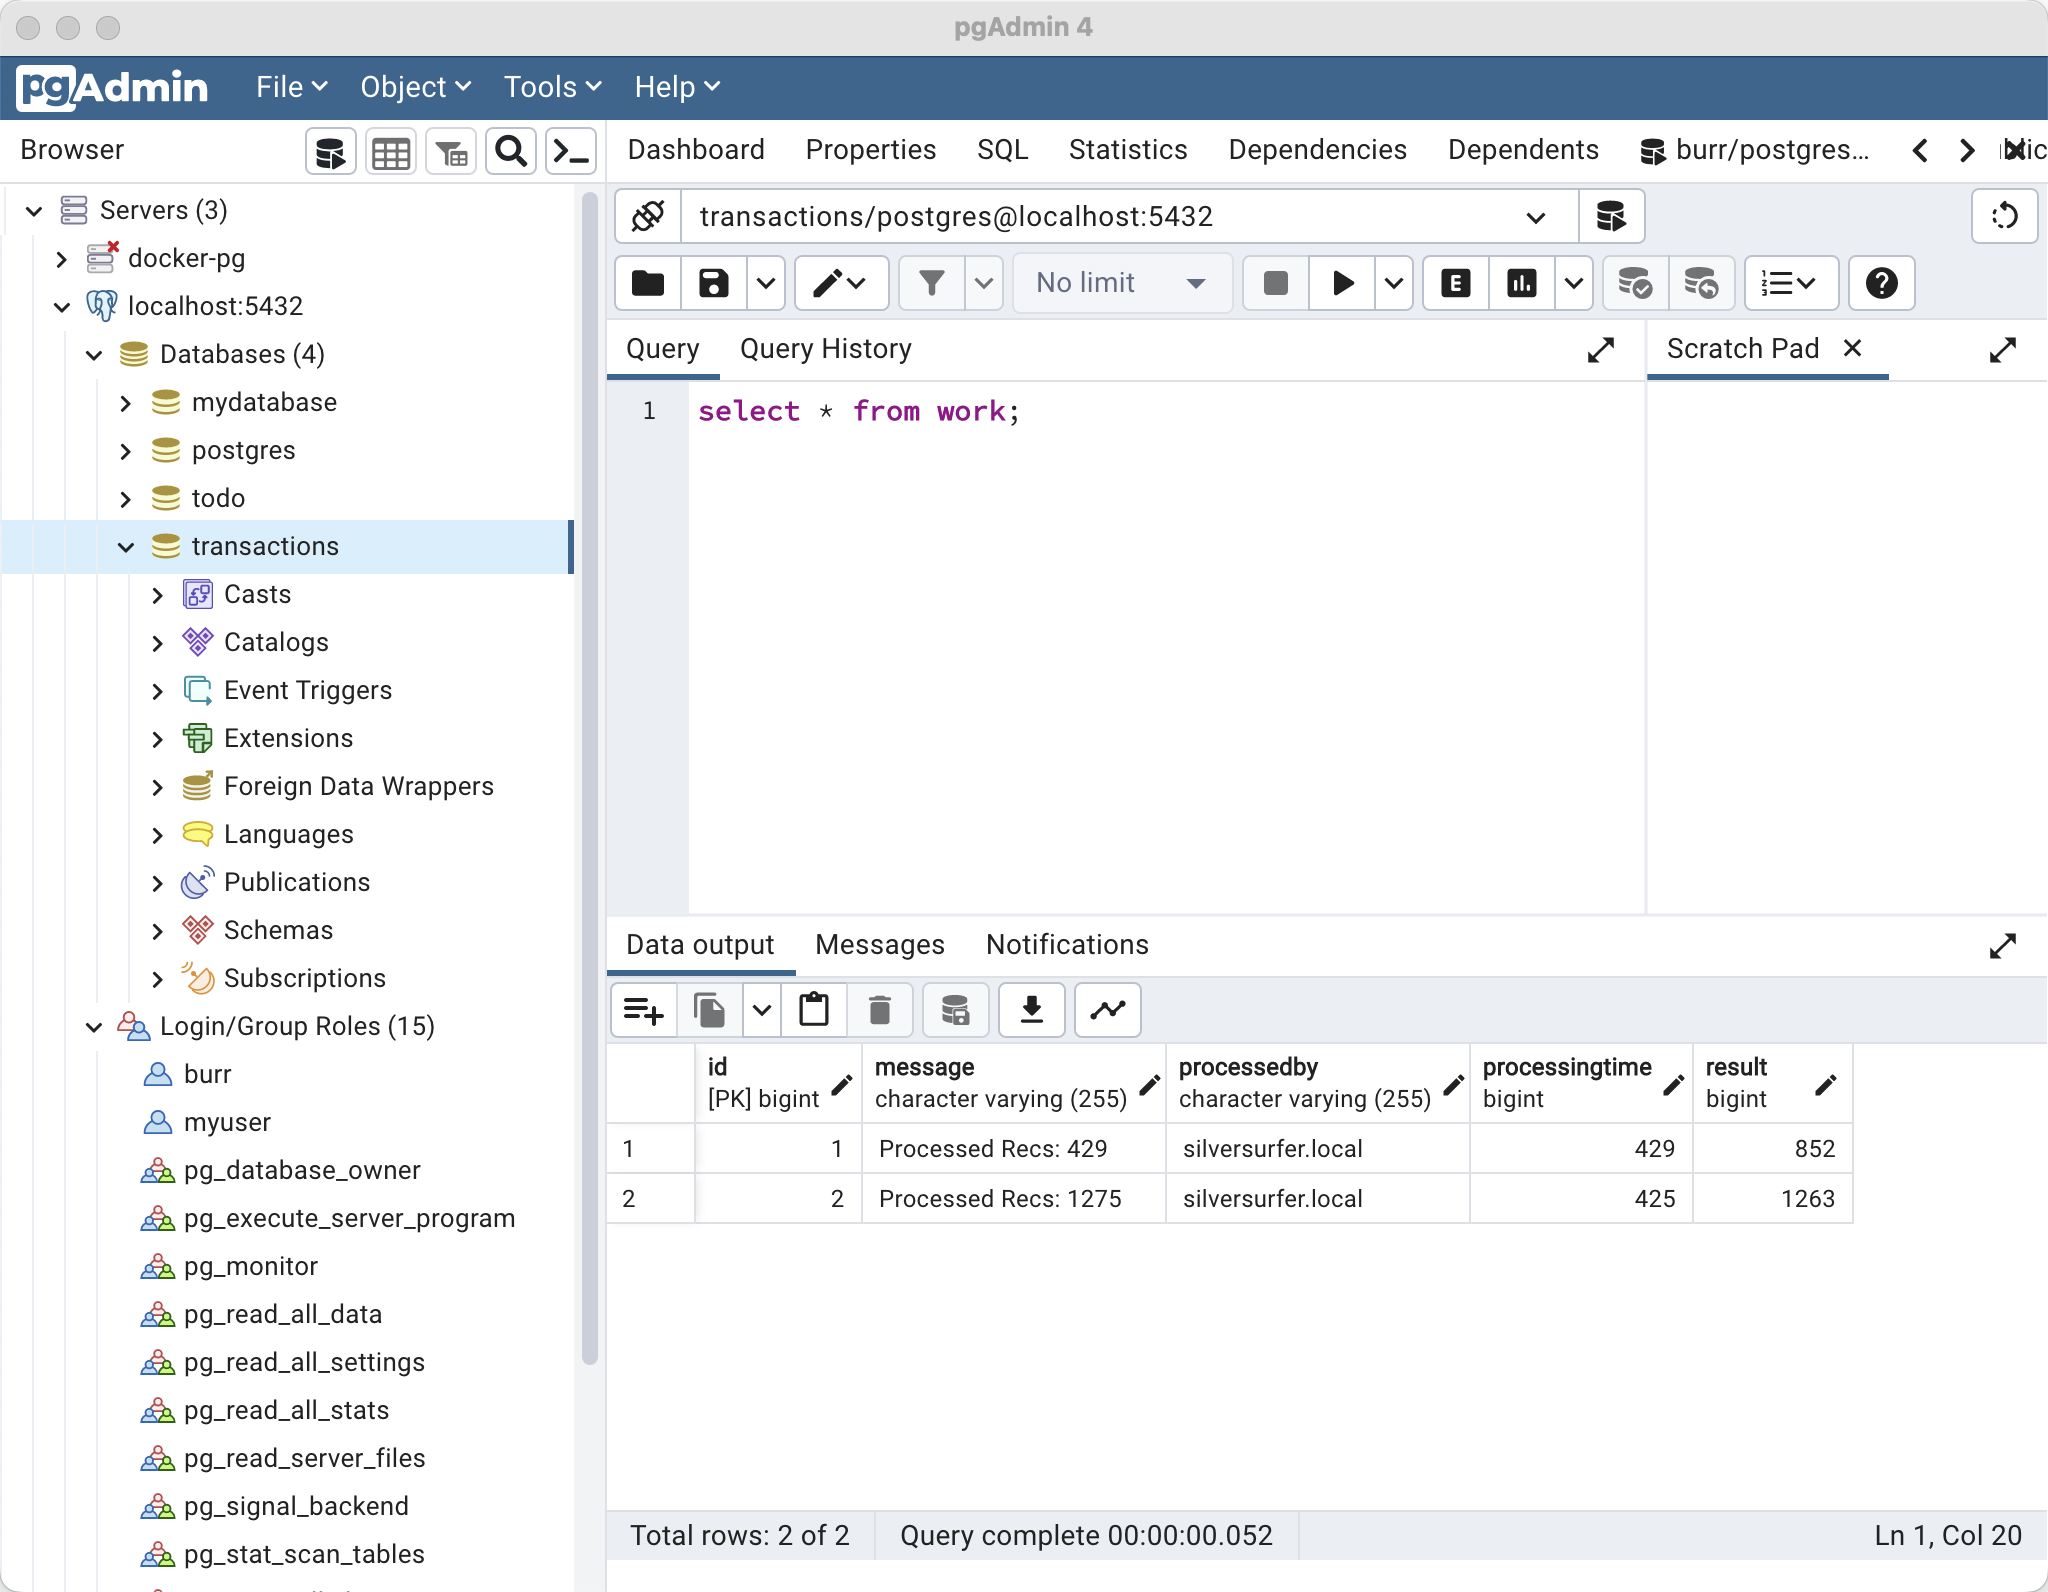
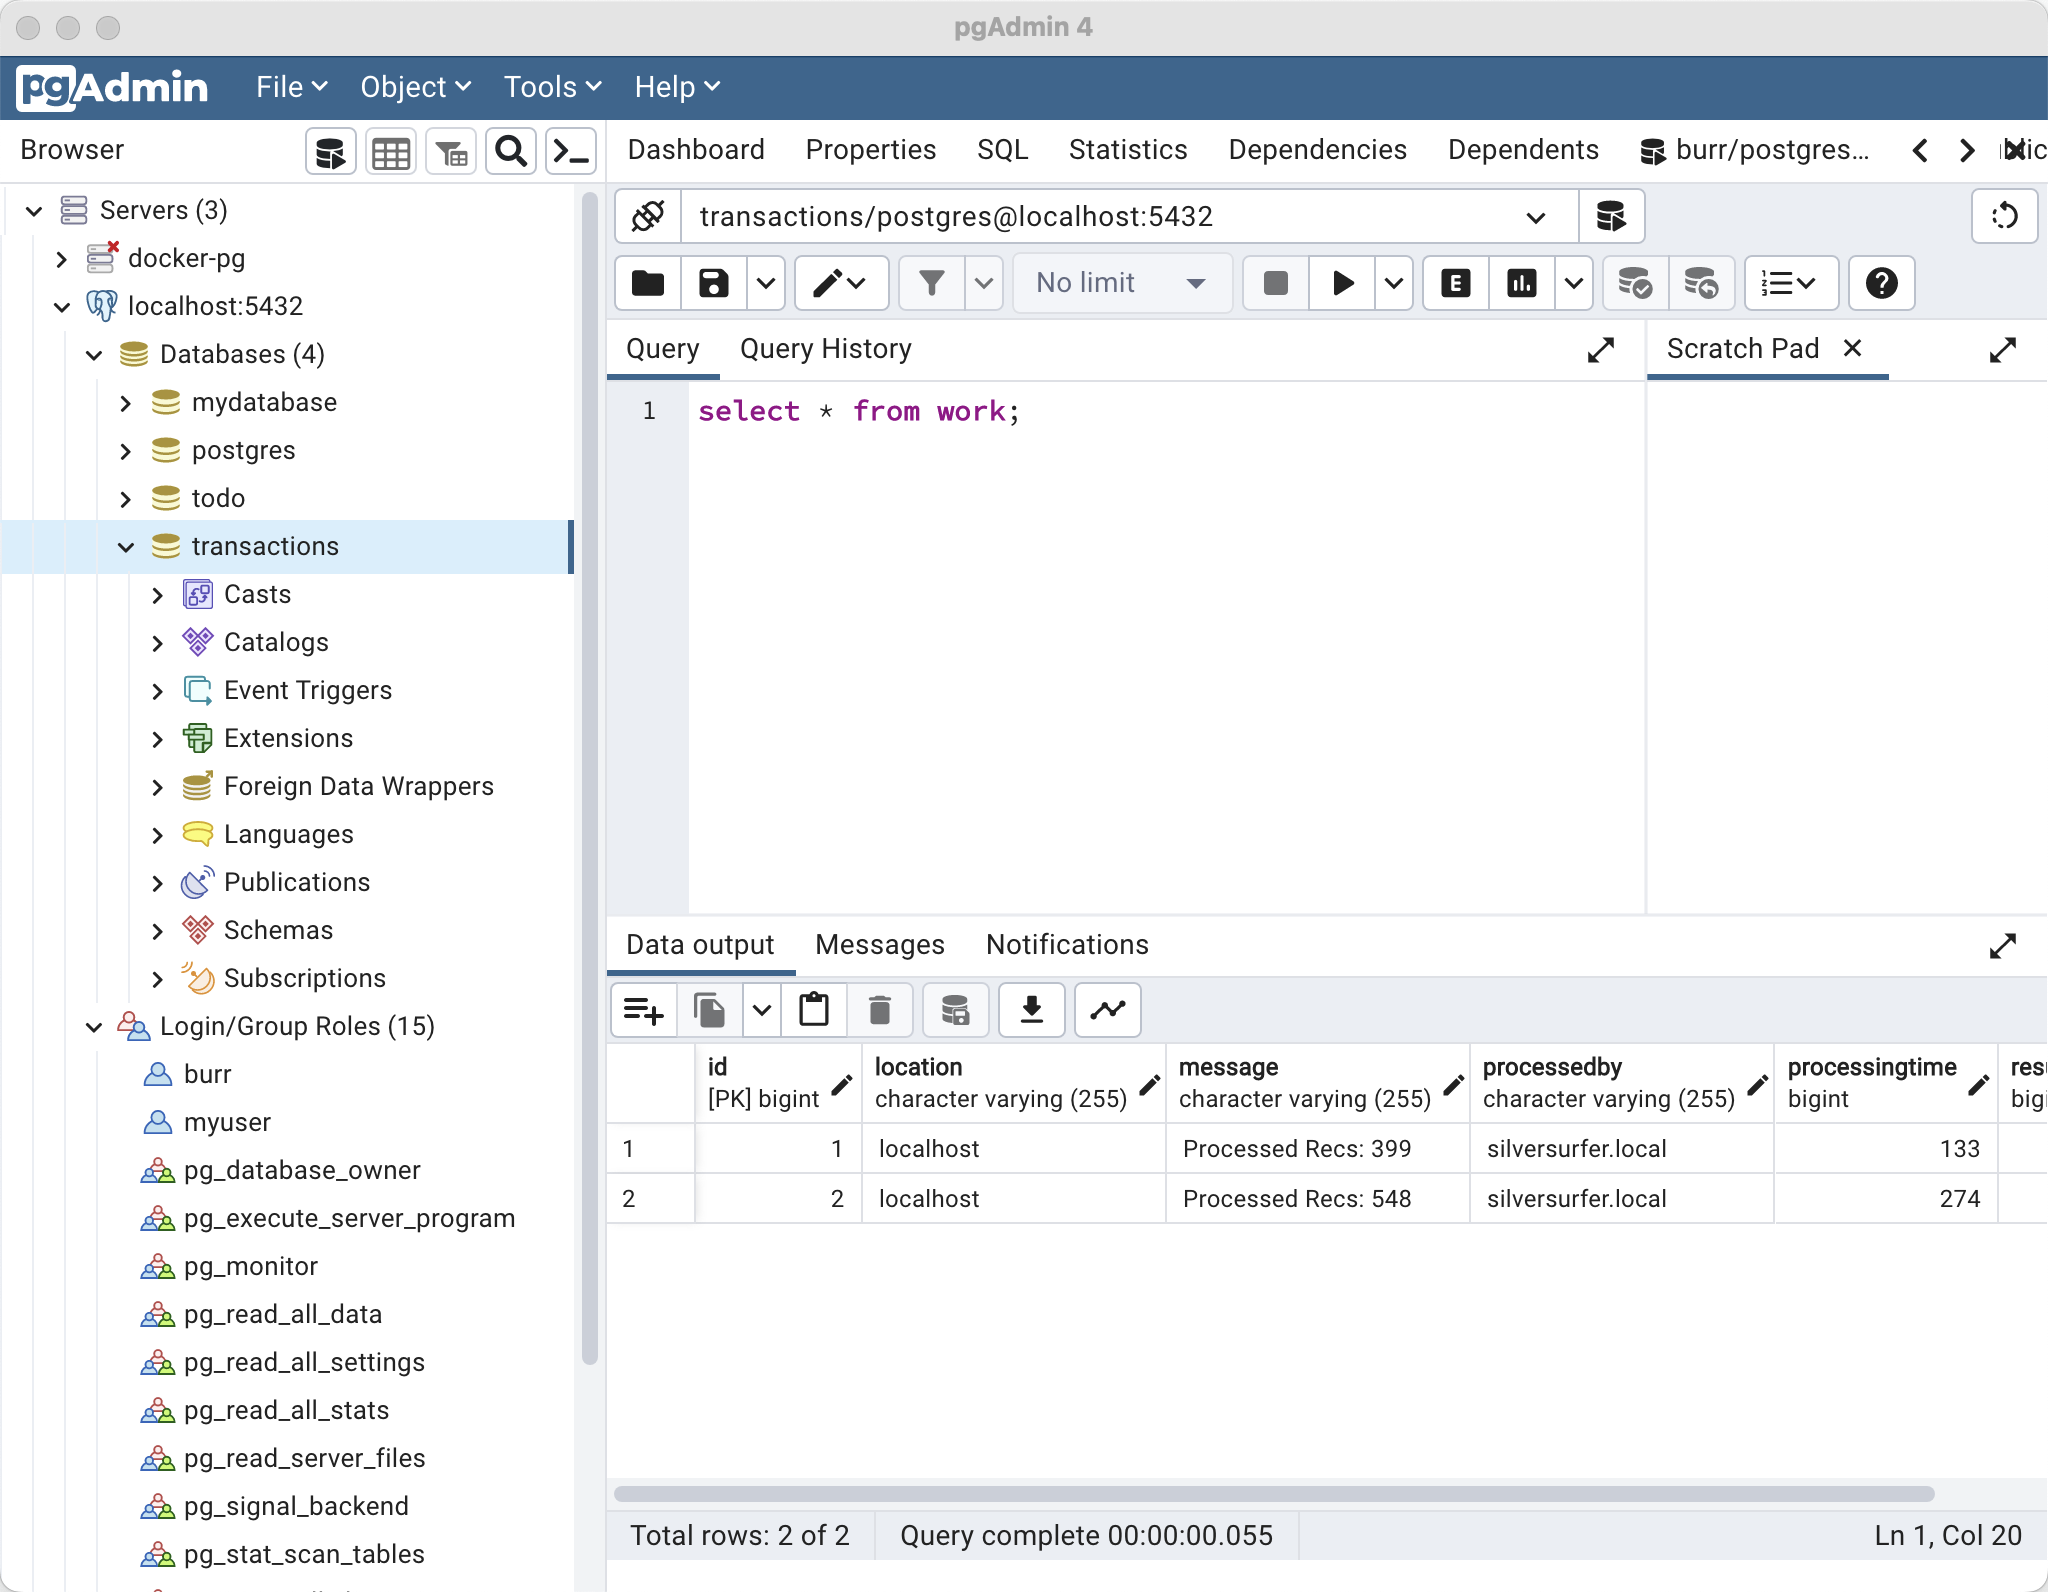
adding cape town

diff --git a/README.md b/README.md
@@ -170,10 +170,10 @@ select * from work;
 ```
 
 ```
- id |       message        |    processedby     | processingtime | result
-----+----------------------+--------------------+----------------+--------
-  1 | Processed Recs: 429  | silversurfer.local |            429 |    852
-  2 | Processed Recs: 1275 | silversurfer.local |            425 |   1263
+id | location  |       message       |    processedby     | processingtime | result
+----+-----------+---------------------+--------------------+----------------+--------
+  1 | localhost | Processed Recs: 399 | silversurfer.local |            133 |    762
+  2 | localhost | Processed Recs: 548 | silversurfer.local |            274 |    268
 ```
 
 
@@ -186,7 +186,87 @@ exit
 
 ## Push Worker to Cluster
 
+```
+kubectl apply -f transaction-deployment.yaml
+```
+
+```
+kubectl set env deployment/transactor LOCATION=Tokyo 
+```
+
+```
+kubectl exec -it deploy/transactor -- bash 
+```
+
+```
+curl localhost:8080/2
+```
+
+## Add another cluster: CapeTown
+
+```
+export KUBECONFIG=/Users/burr/xKS/.kubeconfig/capetown-config
+
+eksctl create cluster \
+--name capetown \
+--region af-south-1 \
+--nodegroup-name myEKSworkers \
+--instance-types=m5.xlarge \
+--nodes 2 \
+--managed
+```
+
+```
+eksctl utils write-kubeconfig --cluster=capetown --region=af-south-1
+
+aws eks update-kubeconfig --name=capetown --region=af-south-1
+```
+
+```
+kubectl create namespace oltp
+kubectl config set-context --current --namespace=oltp
+```
+
+```
+skupper init
+```
+
+#### On Toyko
+
+```
+skupper token create token.yaml -t cert
+```
+
+#### On CapeTown
+
+```
+skupper link create token.yaml
+```
+
+```
+skupper status
+Skupper is enabled for namespace "oltp" in interior mode. It is connected to 2 other sites (1 indirectly). It has 2 exposed services.
+The site console url is:  https://a3df2817e3ef7406fbdaa0b081100751-262154857.af-south-1.elb.amazonaws.com:8080
+The credentials for internal console-auth mode are held in secret: 'skupper-console-users'
+```
+
+```
+kubectl get services
+```
+
+```
+NAME                   TYPE           CLUSTER-IP       EXTERNAL-IP                                                                PORT(S)                           AGE
+oltp-rdbms             ClusterIP      10.100.155.195   <none>                                                                     5432/TCP                          42s
+on-prem-app            ClusterIP      10.100.12.66     <none>                                                                     8080/TCP                          42s
+skupper                LoadBalancer   10.100.26.136    a3df2817e3ef7406fbdaa0b081100751-262154857.af-south-1.elb.amazonaws.com    8080:31256/TCP,8081:32340/TCP     3m39s
+skupper-router         LoadBalancer   10.100.193.113   aea01ffacec924f05aeb6e5b948befcb-1149588767.af-south-1.elb.amazonaws.com   55671:30820/TCP,45671:30467/TCP   3m45s
+skupper-router-local   ClusterIP      10.100.154.40    <none>                                                                     5671/TCP                          3m45s
+```
 
 
 
+## Clean up
 
+```
+eksctl delete cluster --name capetown --region af-south-1
+```
